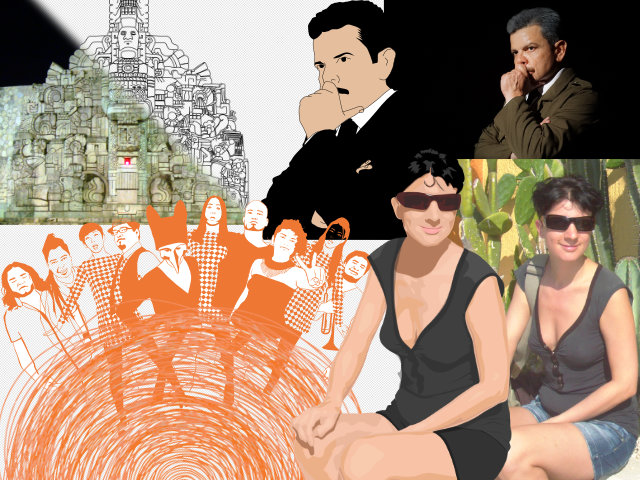
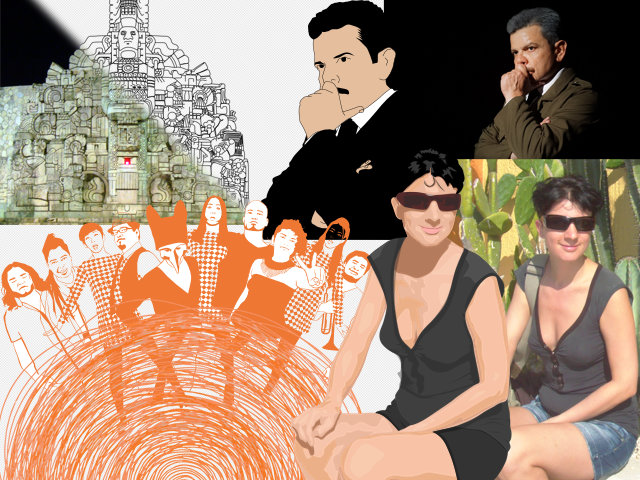
Optimización de fotos

Changed region(s): [[0.0, 0.6875, 0.5312, 1.0], [0.1562, 0.0, 0.4062, 0.4375]]

diff --git a/estilo.min.css b/estilo.min.css
@@ -1,1 +1,1 @@
-body,h1,html{margin:0}html{background:#f2f2f2;color:#333;padding:0}body{padding:3.5em 0 0;font-family:"Helvetica Neue",Arial,Helvetica,sans-serif;font-size:18px;line-height:1.52947;font-weight:300}header#encabezado{background-color:rgba(34,34,34,.7);color:#fff;top:0;left:0;position:fixed;width:100%;z-index:99}h1{font-weight:100;padding:.25rem .25em}#lnkcontacto{position:absolute;top:.5rem;right:1em;font-size:1.5em}#lnkcontacto a,#lnkcontacto a:visited{text-decoration:none}#lnkcontacto a:focus,#lnkcontacto a:hover{text-shadow:0 0 16px #fff}main{display:table;width:100%}section{padding:1em;height:80vh;position:relative;display:table-cell;vertical-align:bottom;background:50% 50% no-repeat;background-size:cover}blockquote,h2,h3,h4,h5,h6,p,pre{max-width:960px;margin-left:auto;margin-right:auto}a{cursor:pointer}blockquote{font-style:italic}blockquote+p{text-align:right}.linea{display:table-row;width:100%}section h2{color:#FFB742;text-shadow:0 2px 2px rgba(0,0,0,.69);margin-bottom:0}section .texto{color:#f2f2f2;background:rgba(0,0,0,.9);max-width:1000px;padding:.25rem 1em;margin:0 auto;letter-spacing:.05em;border-radius:6px;-webkit-transition:all .5s;transition:all .5s}.linea:nth-child(odd) section{z-index:2;box-shadow:1px 2px 16px #000;border-bottom:1px solid #222}.linea:nth-child(even) section{z-index:1}.invisible{opacity:0;transform:translate3d(0,-100%,0)}.full-visible{opacity:1;transform:none}@media (min-width:2561px){section#desarrolloweb{background-image:url(img/img-desarrolloweb-4032x3024-q69.jpg)}section#diseñoeditorial{background-image:url(img/img-editorial-3840x2400-q30.jpg)}section#vectorizacion{background-image:url(img/img-vectorizacion-4032x3024-q20.jpg)}section#fotoyvideo{background-image:url(img/img-fotoyvideo-3840x2400-q45.jpg)}}@media (min-width:1601px) and (max-width:2560px){section#desarrolloweb{background-image:url(img/img-desarrolloweb-2560x1920-q66.jpg);background-image:-webkit-image-set(url(img/img-desarrolloweb-2560x1920-q66.jpg) 1x,url(img/img-desarrolloweb-4032x3024-q69.jpg) 2x)}section#diseñoeditorial{background-image:url(img/img-editorial-2560x1600-q66.jpg);background-image:-webkit-image-set(url(img/img-editorial-2560x1600-q66.jpg) 1x,url(img/img-editorial-3840x2400-q30.jpg) 2x)}section#vectorizacion{background-image:url(img/img-vectorizacion-2560x1920-q33.jpg);background-image:-webkit-image-set(url(img/img-vectorizacion-2560x1920-q33.jpg) 1x,url(img/img-vectorizacion-4032x3024-q20.jpg) 2x)}section#fotoyvideo{background-image:url(img/img-fotoyvideo-2560x1600-q33.jpg);background-image:-webkit-image-set(url(img/img-fotoyvideo-2560x1600-q33.jpg) 1x,url(img/img-fotoyvideo-3840x2400-q45.jpg) 2x)}}@media (min-width:1281px) and (max-width:1600px){section#desarrolloweb{background-image:url(img/img-desarrolloweb-1600x1200-q85.jpg);background-image:-webkit-image-set(url(img/img-desarrolloweb-1600x1200-q85.jpg) 1x,url(img/img-desarrolloweb-3200x2400-q66.jpg) 2x)}section#diseñoeditorial{background-image:url(img/img-editorial-1600x1000-q66.jpg);background-image:-webkit-image-set(url(img/img-editorial-1600x1000-q66.jpg) 1x,url(img/img-editorial-3200x2000-q33.jpg) 2x)}section#vectorizacion{background-image:url(img/img-vectorizacion-1600x1200-q66.jpg);background-image:-webkit-image-set(url(img/img-vectorizacion-1600x1200-q66.jpg) 1x,url(img/img-vectorizacion-3200x2400-q20.jpg) 2x)}section#fotoyvideo{background-image:url(img/img-fotoyvideo-1600x1000-q66.jpg);background-image:-webkit-image-set(url(img/img-fotoyvideo-1600x1000-q66.jpg) 1x,url(img/img-fotoyvideo-3200x2000-q45.jpg) 2x)}}@media (min-width:801px) and (max-width:1280px){section#desarrolloweb{background-image:url(img/img-desarrolloweb-1280x960-q85.jpg);background-image:-webkit-image-set(url(img/img-desarrolloweb-1280x960-q85.jpg) 1x,url(img/img-desarrolloweb-2560x1920-q66.jpg) 2x)}section#diseñoeditorial{background-image:url(img/img-editorial-1280x800-q85.jpg);background-image:-webkit-image-set(url(img/img-editorial-1280x800-q85.jpg) 1x,url(img/img-editorial-2560x1600-q66.jpg) 2x)}section#vectorizacion{background-image:url(img/img-vectorizacion-1280x960-q85.jpg);background-image:-webkit-image-set(url(img/img-vectorizacion-1280x960-q85.jpg) 1x,url(img/img-vectorizacion-2560x1920-q33.jpg) 2x)}section#fotoyvideo{background-image:url(img/img-fotoyvideo-1280x800-q85.jpg);background-image:-webkit-image-set(url(img/img-fotoyvideo-1280x800-q85.jpg) 1x,url(img/img-fotoyvideo-2560x1600-q33.jpg) 2x)}}@media (min-width:641px) and (max-width:800px){section#desarrolloweb{background-image:url(img/img-desarrolloweb-800x600-q85.jpg);background-image:-webkit-image-set(url(img/img-desarrolloweb-800x600-q85.jpg) 1x,url(img/img-desarrolloweb-1600x1200-q85.jpg) 2x)}section#diseñoeditorial{background-image:url(img/img-editorial-800x500-q85.jpg);background-image:-webkit-image-set(url(img/img-editorial-800x500-q85.jpg) 1x,url(img/img-editorial-1600x1000-q66.jpg) 2x)}section#vectorizacion{background-image:url(img/img-vectorizacion-800x600-q85.jpg);background-image:-webkit-image-set(url(img/img-vectorizacion-800x600-q85.jpg) 1x,url(img/img-vectorizacion-1600x1200-q66.jpg) 2x)}section#fotoyvideo{background-image:url(img/img-fotoyvideo-800x500-q85.jpg);background-image:-webkit-image-set(url(img/img-fotoyvideo-800x500-q85.jpg) 1x,url(img/img-fotoyvideo-1600x1000-q66.jpg) 2x)}}@media (max-width:640px){section#desarrolloweb{background-image:url(img/img-desarrolloweb-640x480-q85.jpg);background-image:-webkit-image-set(url(img/img-desarrolloweb-640x480-q85.jpg) 1x,url(img/img-desarrolloweb-1280x960-q85.jpg) 2x)}section#diseñoeditorial{background-image:url(img/img-editorial-640x400-q85.jpg);background-image:-webkit-image-set(url(img/img-editorial-640x400-q85.jpg) 1x,url(img/img-editorial-1280x800-q85.jpg) 2x)}section#vectorizacion{background-image:url(img/img-vectorizacion-640x480-q85.jpg);background-image:-webkit-image-set(url(img/img-vectorizacion-640x480-q85.jpg) 1x,url(img/img-vectorizacion-1280x960-q85.jpg) 2x)}section#fotoyvideo{background-image:url(img/img-fotoyvideo-640x400-q85.jpg);background-image:-webkit-image-set(url(img/img-fotoyvideo-640x400-q85.jpg) 1x,url(img/img-fotoyvideo-1280x800-q85.jpg) 2x)}}
+body,h1,html{margin:0}html{background:#f2f2f2;color:#333;padding:0}body{padding:3.5em 0 0;font-family:"Helvetica Neue",Arial,Helvetica,sans-serif;font-size:18px;line-height:1.52947;font-weight:300}header#encabezado{background-color:rgba(34,34,34,.7);color:#fff;top:0;left:0;position:fixed;width:100%;z-index:99}h1{font-weight:100;padding:.25rem .25em}#lnkcontacto{position:absolute;top:.5rem;right:1em;font-size:1.5em}#lnkcontacto a,#lnkcontacto a:visited{text-decoration:none}#lnkcontacto a:focus,#lnkcontacto a:hover{text-shadow:0 0 16px #fff}main{display:table;width:100%}section{padding:1em;height:80vh;position:relative;display:table-cell;vertical-align:bottom;background:50% 50% no-repeat;background-size:cover}blockquote,h2,h3,h4,h5,h6,p,pre{max-width:960px;margin-left:auto;margin-right:auto}a{cursor:pointer}blockquote{font-style:italic}blockquote+p{text-align:right}.linea{display:table-row;width:100%}section h2{color:#FFB742;text-shadow:0 2px 2px rgba(0,0,0,.69);margin-bottom:0}section .texto{color:#f2f2f2;background:rgba(0,0,0,.9);max-width:1000px;padding:.25rem 1em;margin:0 auto;letter-spacing:.05em;border-radius:6px;-webkit-transition:all .5s;transition:all .5s}.linea:nth-child(odd) section{z-index:2;box-shadow:1px 2px 16px #000;border-bottom:1px solid #222}.linea:nth-child(even) section{z-index:1}.invisible{opacity:0;transform:translate3d(0,-100%,0)}.full-visible{opacity:1;transform:none}@media (min-width:2561px){section#desarrolloweb{background-image:url(img/img-desarrolloweb-4032x3024-q69.jpg)}section#diseñoeditorial{background-image:url(img/img-editorial-3840x2400-q30.jpg)}section#vectorizacion{background-image:url(img/img-vectorizacion-4032x3024-q20.jpg)}section#fotoyvideo{background-image:url(img/img-fotoyvideo-3840x2400-q30.jpg)}}@media (min-width:1601px) and (max-width:2560px){section#desarrolloweb{background-image:url(img/img-desarrolloweb-2560x1920-q69.jpg);background-image:-webkit-image-set(url(img/img-desarrolloweb-2560x1920-q69.jpg) 1x,url(img/img-desarrolloweb-4032x3024-q69.jpg) 2x)}section#diseñoeditorial{background-image:url(img/img-editorial-2560x1600-q69.jpg);background-image:-webkit-image-set(url(img/img-editorial-2560x1600-q69.jpg) 1x,url(img/img-editorial-3840x2400-q30.jpg) 2x)}section#vectorizacion{background-image:url(img/img-vectorizacion-2560x1920-q20.jpg);background-image:-webkit-image-set(url(img/img-vectorizacion-2560x1920-q20.jpg) 1x,url(img/img-vectorizacion-4032x3024-q20.jpg) 2x)}section#fotoyvideo{background-image:url(img/img-fotoyvideo-2560x1600-q69.jpg);background-image:-webkit-image-set(url(img/img-fotoyvideo-2560x1600-q69.jpg) 1x,url(img/img-fotoyvideo-3840x2400-q30.jpg) 2x)}}@media (min-width:1281px) and (max-width:1600px){section#desarrolloweb{background-image:url(img/img-desarrolloweb-1600x1200-q85.jpg);background-image:-webkit-image-set(url(img/img-desarrolloweb-1600x1200-q85.jpg) 1x,url(img/img-desarrolloweb-3200x2400-q69.jpg) 2x)}section#diseñoeditorial{background-image:url(img/img-editorial-1600x1000-q69.jpg);background-image:-webkit-image-set(url(img/img-editorial-1600x1000-q69.jpg) 1x,url(img/img-editorial-3200x2000-q30.jpg) 2x)}section#vectorizacion{background-image:url(img/img-vectorizacion-1600x1200-q69.jpg);background-image:-webkit-image-set(url(img/img-vectorizacion-1600x1200-q69.jpg) 1x,url(img/img-vectorizacion-3200x2400-q20.jpg) 2x)}section#fotoyvideo{background-image:url(img/img-fotoyvideo-1600x1000-q69.jpg);background-image:-webkit-image-set(url(img/img-fotoyvideo-1600x1000-q69.jpg) 1x,url(img/img-fotoyvideo-3200x2000-q30.jpg) 2x)}}@media (min-width:801px) and (max-width:1280px){section#desarrolloweb{background-image:url(img/img-desarrolloweb-1280x960-q85.jpg);background-image:-webkit-image-set(url(img/img-desarrolloweb-1280x960-q85.jpg) 1x,url(img/img-desarrolloweb-2560x1920-q69.jpg) 2x)}section#diseñoeditorial{background-image:url(img/img-editorial-1280x800-q85.jpg);background-image:-webkit-image-set(url(img/img-editorial-1280x800-q85.jpg) 1x,url(img/img-editorial-2560x1600-q69.jpg) 2x)}section#vectorizacion{background-image:url(img/img-vectorizacion-1280x960-q85.jpg);background-image:-webkit-image-set(url(img/img-vectorizacion-1280x960-q85.jpg) 1x,url(img/img-vectorizacion-2560x1920-q20.jpg) 2x)}section#fotoyvideo{background-image:url(img/img-fotoyvideo-1280x800-q85.jpg);background-image:-webkit-image-set(url(img/img-fotoyvideo-1280x800-q85.jpg) 1x,url(img/img-fotoyvideo-2560x1600-q69.jpg) 2x)}}@media (min-width:641px) and (max-width:800px){section#desarrolloweb{background-image:url(img/img-desarrolloweb-800x600-q85.jpg);background-image:-webkit-image-set(url(img/img-desarrolloweb-800x600-q85.jpg) 1x,url(img/img-desarrolloweb-1600x1200-q85.jpg) 2x)}section#diseñoeditorial{background-image:url(img/img-editorial-800x500-q85.jpg);background-image:-webkit-image-set(url(img/img-editorial-800x500-q85.jpg) 1x,url(img/img-editorial-1600x1000-q69.jpg) 2x)}section#vectorizacion{background-image:url(img/img-vectorizacion-800x600-q85.jpg);background-image:-webkit-image-set(url(img/img-vectorizacion-800x600-q85.jpg) 1x,url(img/img-vectorizacion-1600x1200-q69.jpg) 2x)}section#fotoyvideo{background-image:url(img/img-fotoyvideo-800x500-q85.jpg);background-image:-webkit-image-set(url(img/img-fotoyvideo-800x500-q85.jpg) 1x,url(img/img-fotoyvideo-1600x1000-q69.jpg) 2x)}}@media (max-width:640px){section#desarrolloweb{background-image:url(img/img-desarrolloweb-640x480-q85.jpg);background-image:-webkit-image-set(url(img/img-desarrolloweb-640x480-q85.jpg) 1x,url(img/img-desarrolloweb-1280x960-q85.jpg) 2x)}section#diseñoeditorial{background-image:url(img/img-editorial-640x400-q85.jpg);background-image:-webkit-image-set(url(img/img-editorial-640x400-q85.jpg) 1x,url(img/img-editorial-1280x800-q85.jpg) 2x)}section#vectorizacion{background-image:url(img/img-vectorizacion-640x480-q85.jpg);background-image:-webkit-image-set(url(img/img-vectorizacion-640x480-q85.jpg) 1x,url(img/img-vectorizacion-1280x960-q85.jpg) 2x)}section#fotoyvideo{background-image:url(img/img-fotoyvideo-640x400-q85.jpg);background-image:-webkit-image-set(url(img/img-fotoyvideo-640x400-q85.jpg) 1x,url(img/img-fotoyvideo-1280x800-q85.jpg) 2x)}}

diff --git a/estilo.css b/estilo.css
@@ -26,29 +26,29 @@ section .texto{color:#f2f2f2;background:rgba(0,0,0,.90);max-width:1000px;padding
   section#desarrolloweb{background-image:url(img/img-desarrolloweb-4032x3024-q69.jpg);}
   section#diseñoeditorial{background-image:url(img/img-editorial-3840x2400-q30.jpg);}
   section#vectorizacion{background-image:url(img/img-vectorizacion-4032x3024-q20.jpg);}
-  section#fotoyvideo{background-image:url(img/img-fotoyvideo-3840x2400-q45.jpg);}
+  section#fotoyvideo{background-image:url(img/img-fotoyvideo-3840x2400-q30.jpg);}
 }
 @media (min-width:1601px) and (max-width:2560px)
 {
   section#desarrolloweb
   {
-    background-image:url(img/img-desarrolloweb-2560x1920-q66.jpg);
-    background-image:-webkit-image-set(url(img/img-desarrolloweb-2560x1920-q66.jpg) 1x, url(img/img-desarrolloweb-4032x3024-q69.jpg) 2x);
+    background-image:url(img/img-desarrolloweb-2560x1920-q69.jpg);
+    background-image:-webkit-image-set(url(img/img-desarrolloweb-2560x1920-q69.jpg) 1x, url(img/img-desarrolloweb-4032x3024-q69.jpg) 2x);
   }
   section#diseñoeditorial
   {
-    background-image:url(img/img-editorial-2560x1600-q66.jpg);
-    background-image:-webkit-image-set(url(img/img-editorial-2560x1600-q66.jpg) 1x, url(img/img-editorial-3840x2400-q30.jpg) 2x);
+    background-image:url(img/img-editorial-2560x1600-q69.jpg);
+    background-image:-webkit-image-set(url(img/img-editorial-2560x1600-q69.jpg) 1x, url(img/img-editorial-3840x2400-q30.jpg) 2x);
   }
   section#vectorizacion
   {
-    background-image:url(img/img-vectorizacion-2560x1920-q33.jpg);
-    background-image:-webkit-image-set(url(img/img-vectorizacion-2560x1920-q33.jpg) 1x, url(img/img-vectorizacion-4032x3024-q20.jpg) 2x);
+    background-image:url(img/img-vectorizacion-2560x1920-q20.jpg);
+    background-image:-webkit-image-set(url(img/img-vectorizacion-2560x1920-q20.jpg) 1x, url(img/img-vectorizacion-4032x3024-q20.jpg) 2x);
   }
   section#fotoyvideo
   {
-    background-image:url(img/img-fotoyvideo-2560x1600-q33.jpg);
-    background-image:-webkit-image-set(url(img/img-fotoyvideo-2560x1600-q33.jpg) 1x, url(img/img-fotoyvideo-3840x2400-q45.jpg) 2x);
+    background-image:url(img/img-fotoyvideo-2560x1600-q69.jpg);
+    background-image:-webkit-image-set(url(img/img-fotoyvideo-2560x1600-q69.jpg) 1x, url(img/img-fotoyvideo-3840x2400-q30.jpg) 2x);
   }
 }
 @media (min-width:1281px) and (max-width:1600px)
@@ -56,22 +56,22 @@ section .texto{color:#f2f2f2;background:rgba(0,0,0,.90);max-width:1000px;padding
   section#desarrolloweb
   {
     background-image:url(img/img-desarrolloweb-1600x1200-q85.jpg);
-    background-image:-webkit-image-set(url(img/img-desarrolloweb-1600x1200-q85.jpg) 1x, url(img/img-desarrolloweb-3200x2400-q66.jpg) 2x);
+    background-image:-webkit-image-set(url(img/img-desarrolloweb-1600x1200-q85.jpg) 1x, url(img/img-desarrolloweb-3200x2400-q69.jpg) 2x);
   }
   section#diseñoeditorial
   {
-    background-image:url(img/img-editorial-1600x1000-q66.jpg);
-    background-image:-webkit-image-set(url(img/img-editorial-1600x1000-q66.jpg) 1x, url(img/img-editorial-3200x2000-q33.jpg) 2x);
+    background-image:url(img/img-editorial-1600x1000-q69.jpg);
+    background-image:-webkit-image-set(url(img/img-editorial-1600x1000-q69.jpg) 1x, url(img/img-editorial-3200x2000-q30.jpg) 2x);
   }
   section#vectorizacion
   {
-    background-image:url(img/img-vectorizacion-1600x1200-q66.jpg);
-    background-image:-webkit-image-set(url(img/img-vectorizacion-1600x1200-q66.jpg) 1x, url(img/img-vectorizacion-3200x2400-q20.jpg) 2x);
+    background-image:url(img/img-vectorizacion-1600x1200-q69.jpg);
+    background-image:-webkit-image-set(url(img/img-vectorizacion-1600x1200-q69.jpg) 1x, url(img/img-vectorizacion-3200x2400-q20.jpg) 2x);
   }
   section#fotoyvideo
   {
-    background-image:url(img/img-fotoyvideo-1600x1000-q66.jpg);
-    background-image:-webkit-image-set(url(img/img-fotoyvideo-1600x1000-q66.jpg) 1x, url(img/img-fotoyvideo-3200x2000-q45.jpg) 2x);
+    background-image:url(img/img-fotoyvideo-1600x1000-q69.jpg);
+    background-image:-webkit-image-set(url(img/img-fotoyvideo-1600x1000-q69.jpg) 1x, url(img/img-fotoyvideo-3200x2000-q30.jpg) 2x);
   }
 }
 @media (min-width:801px) and (max-width:1280px)
@@ -79,22 +79,22 @@ section .texto{color:#f2f2f2;background:rgba(0,0,0,.90);max-width:1000px;padding
   section#desarrolloweb
   {
     background-image:url(img/img-desarrolloweb-1280x960-q85.jpg);
-    background-image:-webkit-image-set(url(img/img-desarrolloweb-1280x960-q85.jpg) 1x, url(img/img-desarrolloweb-2560x1920-q66.jpg) 2x);
+    background-image:-webkit-image-set(url(img/img-desarrolloweb-1280x960-q85.jpg) 1x, url(img/img-desarrolloweb-2560x1920-q69.jpg) 2x);
   }
   section#diseñoeditorial
   {
     background-image:url(img/img-editorial-1280x800-q85.jpg);
-    background-image:-webkit-image-set(url(img/img-editorial-1280x800-q85.jpg) 1x, url(img/img-editorial-2560x1600-q66.jpg) 2x);
+    background-image:-webkit-image-set(url(img/img-editorial-1280x800-q85.jpg) 1x, url(img/img-editorial-2560x1600-q69.jpg) 2x);
   }
   section#vectorizacion
   {
     background-image:url(img/img-vectorizacion-1280x960-q85.jpg);
-    background-image:-webkit-image-set(url(img/img-vectorizacion-1280x960-q85.jpg) 1x, url(img/img-vectorizacion-2560x1920-q33.jpg) 2x);
+    background-image:-webkit-image-set(url(img/img-vectorizacion-1280x960-q85.jpg) 1x, url(img/img-vectorizacion-2560x1920-q20.jpg) 2x);
   }
   section#fotoyvideo
   {
     background-image:url(img/img-fotoyvideo-1280x800-q85.jpg);
-    background-image:-webkit-image-set(url(img/img-fotoyvideo-1280x800-q85.jpg) 1x, url(img/img-fotoyvideo-2560x1600-q33.jpg) 2x);
+    background-image:-webkit-image-set(url(img/img-fotoyvideo-1280x800-q85.jpg) 1x, url(img/img-fotoyvideo-2560x1600-q69.jpg) 2x);
   }
 }
 @media (min-width:641px) and (max-width:800px)
@@ -107,17 +107,17 @@ section .texto{color:#f2f2f2;background:rgba(0,0,0,.90);max-width:1000px;padding
   section#diseñoeditorial
   {
     background-image:url(img/img-editorial-800x500-q85.jpg);
-    background-image:-webkit-image-set(url(img/img-editorial-800x500-q85.jpg) 1x, url(img/img-editorial-1600x1000-q66.jpg) 2x);
+    background-image:-webkit-image-set(url(img/img-editorial-800x500-q85.jpg) 1x, url(img/img-editorial-1600x1000-q69.jpg) 2x);
   }
   section#vectorizacion
   {
     background-image:url(img/img-vectorizacion-800x600-q85.jpg);
-    background-image:-webkit-image-set(url(img/img-vectorizacion-800x600-q85.jpg) 1x, url(img/img-vectorizacion-1600x1200-q66.jpg) 2x);
+    background-image:-webkit-image-set(url(img/img-vectorizacion-800x600-q85.jpg) 1x, url(img/img-vectorizacion-1600x1200-q69.jpg) 2x);
   }
   section#fotoyvideo
   {
     background-image:url(img/img-fotoyvideo-800x500-q85.jpg);
-    background-image:-webkit-image-set(url(img/img-fotoyvideo-800x500-q85.jpg) 1x, url(img/img-fotoyvideo-1600x1000-q66.jpg) 2x);
+    background-image:-webkit-image-set(url(img/img-fotoyvideo-800x500-q85.jpg) 1x, url(img/img-fotoyvideo-1600x1000-q69.jpg) 2x);
   }
 }
 @media (max-width:640px)
